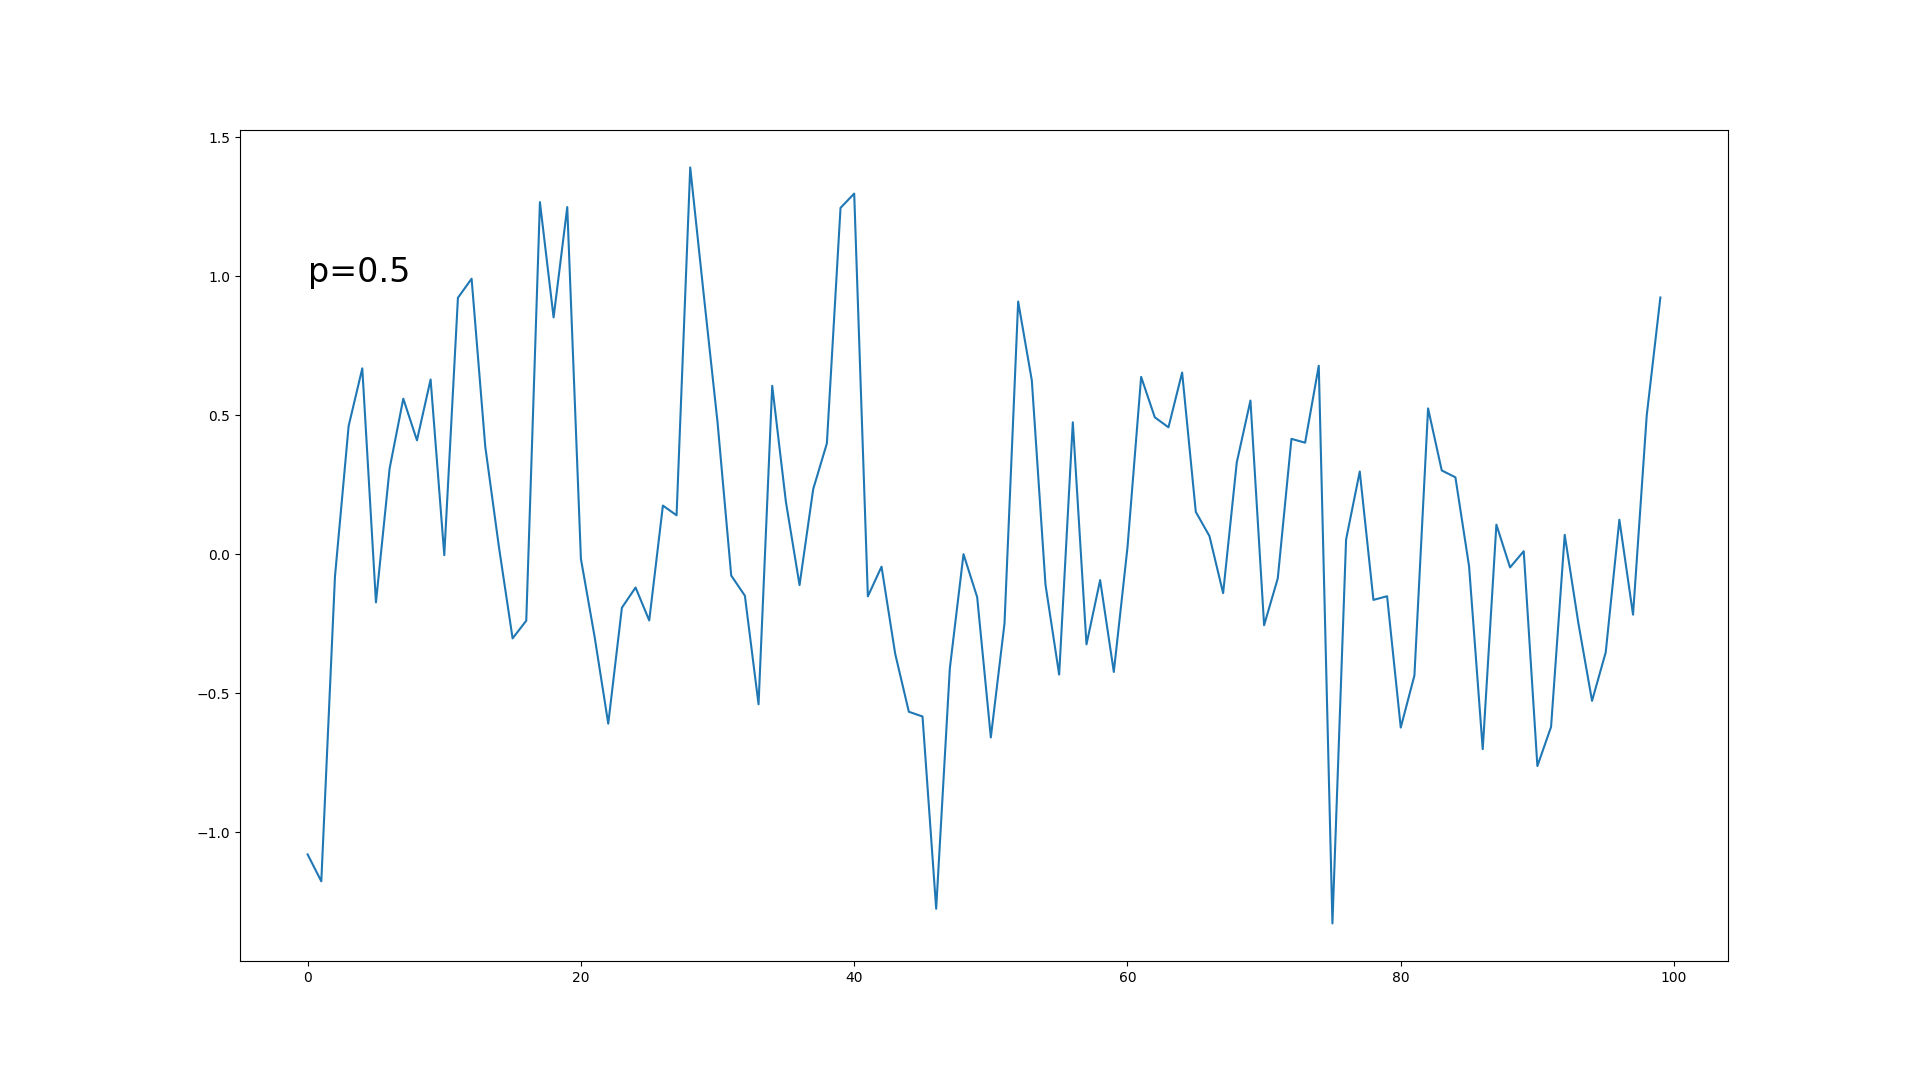
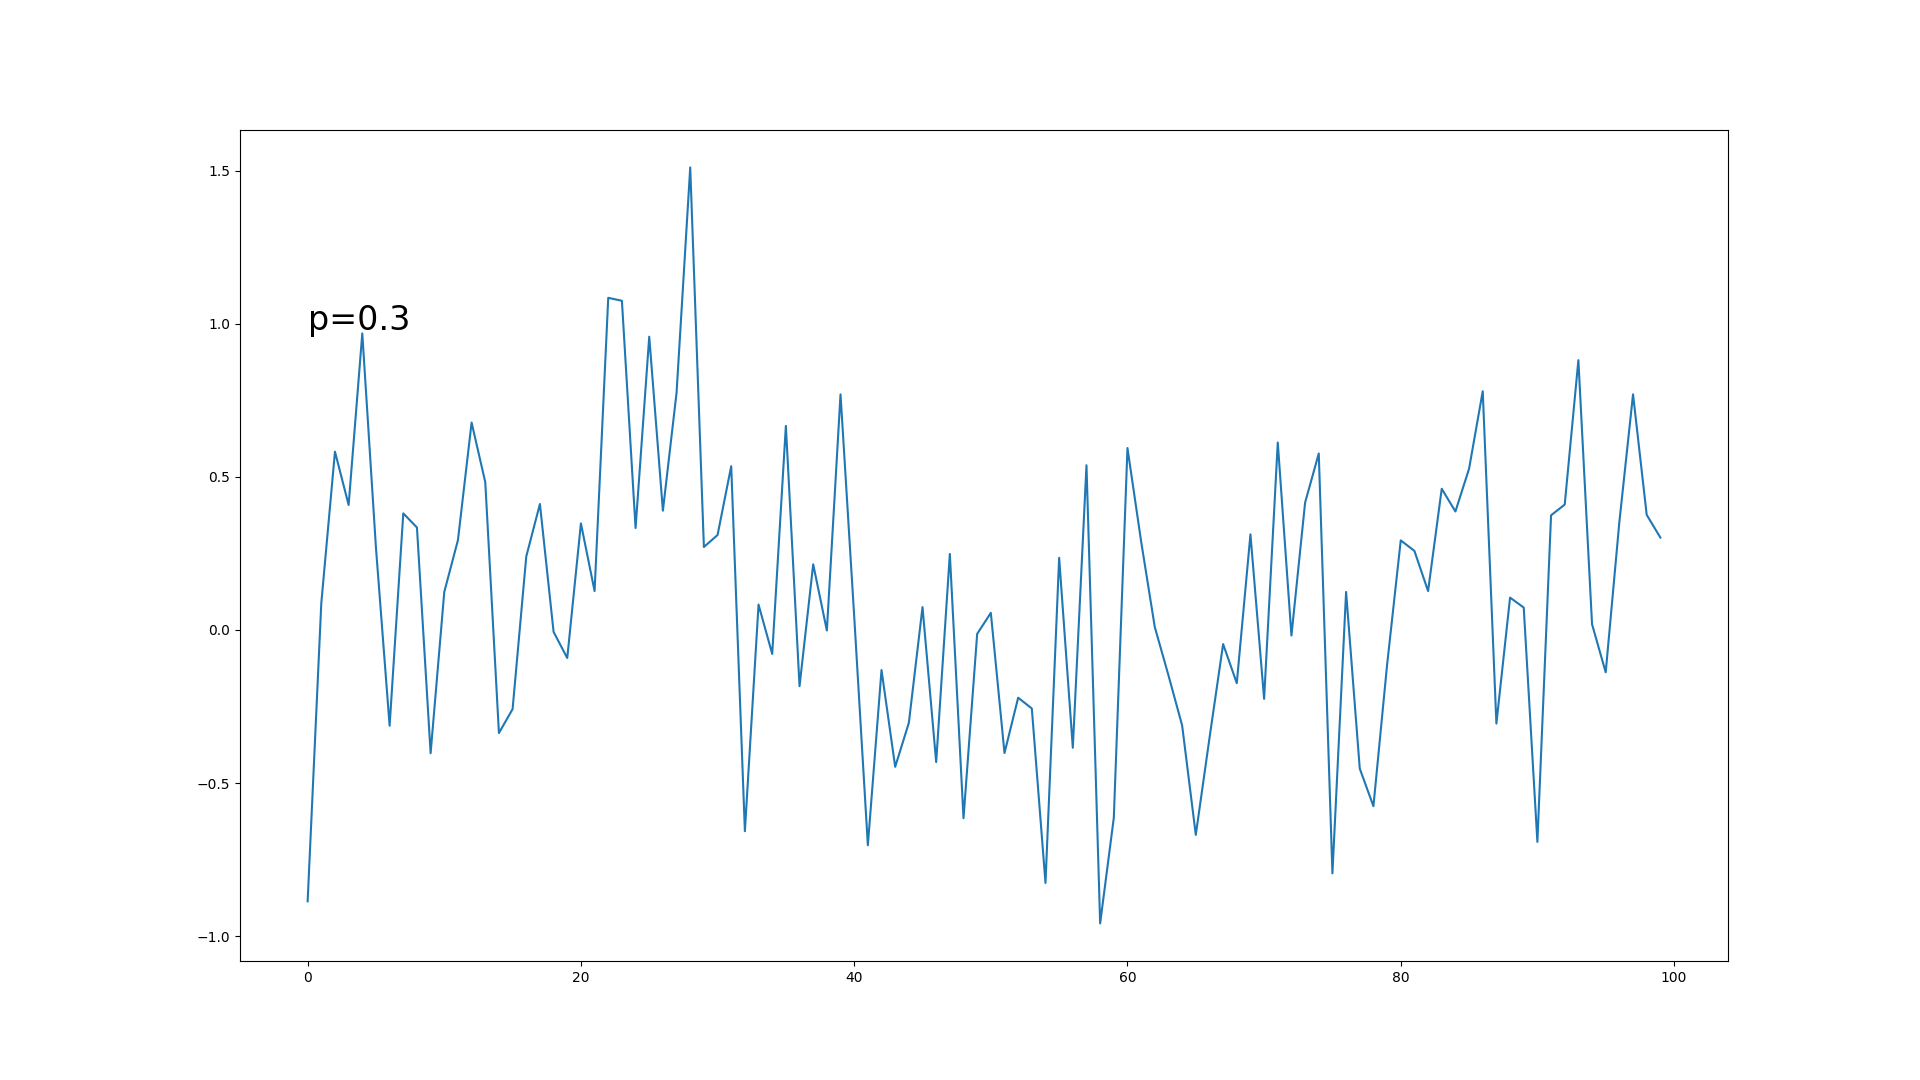
any comment

diff --git a/code.html b/code.html
@@ -13,7 +13,7 @@
   <script src="https://telegram.org/js/telegram-web-app.js"></script>
 </head>
 <body>
-  <img src="random_line_plot.png" alt="График">
+  <img src="ar1_process.png" alt="График">
   
   <script src="https://telegram.org/js/telegram-web-app.js"></script>
   <script>

diff --git a/main.py b/main.py
@@ -1,44 +1,36 @@
 import asyncio
 import sqlite3
+import random
+import urllib.parse
+
 from aiogram import Bot, Dispatcher, types, F
 from aiogram.filters import Command
 from aiogram.types import ReplyKeyboardMarkup, KeyboardButton, WebAppInfo
-import numpy as np
-import matplotlib.pyplot as plt
-import random
-#12344567
-API_TOKEN = "8592559811:AAH29ce0hb8CQCuT7E_EIY64Nwoi5CILQX8"
+
+API_TOKEN = "8592559811:AAH29ce0hb8CQCuT7E_EIY64Nwoi5CILQX8"  # 🔹 вставь сюда токен бота
+BASE_WEBAPP_URL = "8592559811:AAH29ce0hb8CQCuT7E_EIY64Nwoi5CILQX8"  # 🔹 твой Cloudflare Pages URL
 
 bot = Bot(token=API_TOKEN)
 dp = Dispatcher()
 
-#генерация графика
-def generating_plot():
-    n = 100
-    phi = random.choice([0.3, 0.5, 0.7])
-    sigma = 0.5
-    epsilon = np.random.normal(0, sigma, n)
-    X = np.zeros(n)
-    X[0] = epsilon[0]
-    
-    for t in range(1, n):
-        X[t] = phi * X[t-1] + epsilon[t]
+# =========================
+#   БАЗА ДАННЫХ
+# =========================
 
-    plt.figure(figsize=(19.2, 10.8), dpi=100)
-    plt.plot(X)
-    plt.text(0.02, 0.98, "p=" + str(phi), fontsize=24)
-    plt.savefig('ar1_process.png')
-    plt.close()
-
-
-#SQL:
 def init_db():
     db = sqlite3.connect("results.db")
     cursor = db.cursor()
-    cursor.execute("""CREATE TABLE IF NOT EXISTS results (user_id INTEGER, price_up INTEGER,price_down INTEGER)""")
+    cursor.execute("""
+        CREATE TABLE IF NOT EXISTS results (
+            user_id    INTEGER,
+            price_up   INTEGER,
+            price_down INTEGER
+        )
+    """)
     db.commit()
     db.close()
     print("база данных создана")
+
 
 def insert_result(user_id: int, choice: str):
     db = sqlite3.connect("results.db")
@@ -51,37 +43,71 @@ def insert_result(user_id: int, choice: str):
     else:
         db.close()
         return
-    cursor.execute("""INSERT INTO results (user_id, price_up, price_down) VALUES (?, ?, ?)""",(user_id, price_up, price_down))
+
+    cursor.execute(
+        "INSERT INTO results (user_id, price_up, price_down) VALUES (?, ?, ?)",
+        (user_id, price_up, price_down),
+    )
     db.commit()
     db.close()
     print(user_id, price_up, price_down)
-    
-#кнопка запуска апп и генерация графика
-def get_webapp_keyboard():
-    generating_plot()
-    button = KeyboardButton(text="Открыть график", web_app=WebAppInfo(url="https://andreimit1.github.io/my-photo-webapp/code.html"))
-    return ReplyKeyboardMarkup(keyboard=[[button]], resize_keyboard=True) 
 
 
-@dp.message(Command("start"))  
-async def cmd_start(message: types.Message):
-    await message.answer(
-        "Нажми кнопку, чтобы открыть мини-приложение + график сгенерирован",
-        reply_markup=get_webapp_keyboard()
+# =========================
+#   WEBAPP-КНОПКА
+# =========================
+
+def build_webapp_url(user_id: int) -> str:
+    """
+    Собираем URL для мини-аппа:
+    - phi: параметр AR(1), если захочешь использовать его в будущем
+    - uid: id пользователя
+    - v: случайное число, чтобы Телега не кэшировала старую страницу
+    """
+    phi = random.choice([0.3, 0.5, 0.7])
+    v = random.randint(0, 10**9)
+    params = urllib.parse.urlencode({"phi": phi, "uid": user_id, "v": v})
+    return f"{BASE_WEBAPP_URL}?{params}"
+
+
+def get_webapp_keyboard(user_id: int) -> ReplyKeyboardMarkup:
+    url = build_webapp_url(user_id)
+    button = KeyboardButton(
+        text="Открыть график",
+        web_app=WebAppInfo(url=url),
     )
-   
+    return ReplyKeyboardMarkup(
+        keyboard=[[button]],
+        resize_keyboard=True,
+    )
 
 
-@dp.message(F.web_app_data)     
+# =========================
+#   ХЭНДЛЕРЫ
+# =========================
+
+@dp.message(Command("start"))
+async def cmd_start(message: types.Message):
+    user_id = message.from_user.id
+    await message.answer(
+        "Нажми кнопку, чтобы открыть мини-приложение с графиком",
+        reply_markup=get_webapp_keyboard(user_id),
+    )
+
+
+@dp.message(F.web_app_data)
 async def web_app_data_handler(message: types.Message):
-    data = message.web_app_data.data
+    data = message.web_app_data.data  # "0" или "1"
     user_id = message.from_user.id
     print("Получено значение:", data)
 
-   
     insert_result(user_id, data)
     await message.answer(f"Ты нажал: {data}")
 
+
+# =========================
+#   ЗАПУСК БОТА
+# =========================
 
 async def main():
     print("Бот запустился...")
@@ -92,8 +118,5 @@ async def main():
 
 if __name__ == "__main__":
     asyncio.run(main())
-
-
-
 
 
